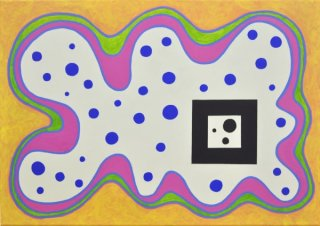
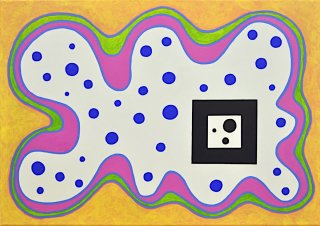
added webp format for some home page image

diff --git a/pages/index.md b/pages/index.md
@@ -13,7 +13,7 @@ intro_paragraph: ''
 
 ## Painting, sculpture, drawing, interactive art and more...
 
-{% assign path = 'assets/images/uploads/glitch_abstract_painting_interactive_art_augmented_reality_Walter_Perdan.jpg' %}
+{% assign path = 'assets/images/uploads/glitch_abstract_painting_interactive_art_augmented_reality_Walter_Perdan.webp' %}
 {% assign alt = 'Glitch - Interactive art - Abstract painting with augmented reality by Walter Perdan' %}
 {% assign title = 'Glitch' %}
 {% assign caption = 'Glitch, acrylic color on canvas, 70x50 cm, 2018.'%}
